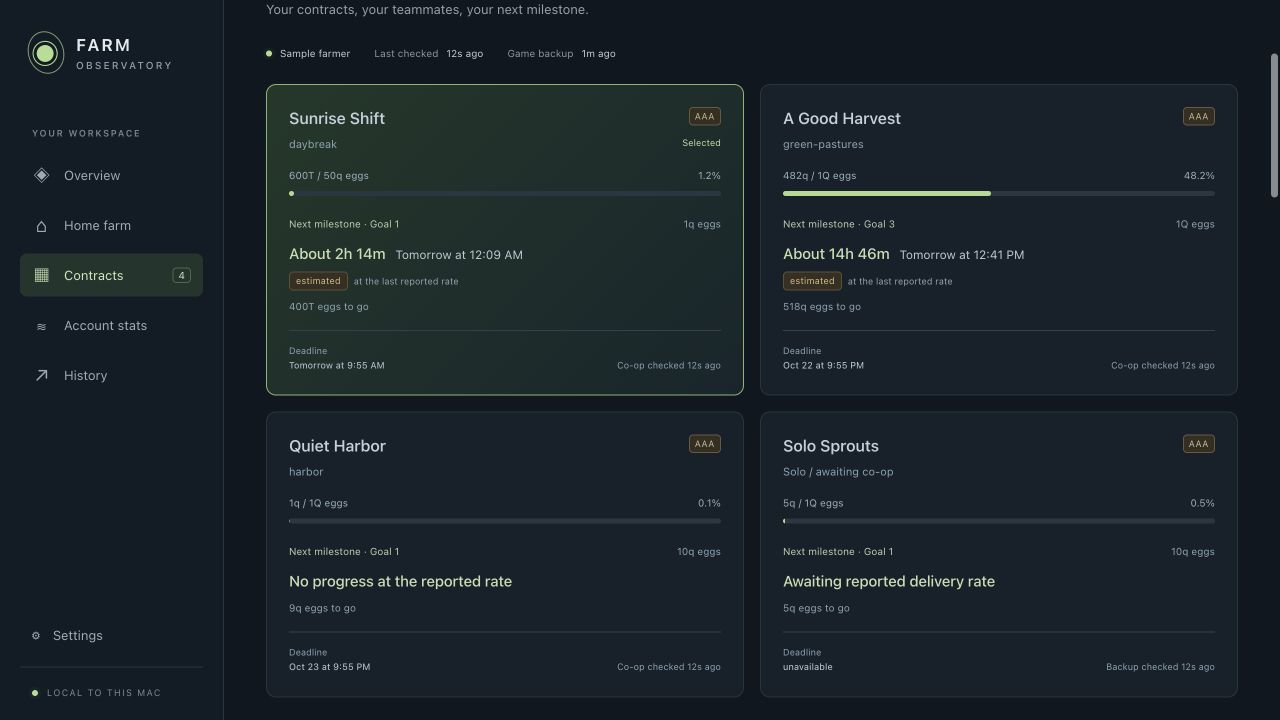
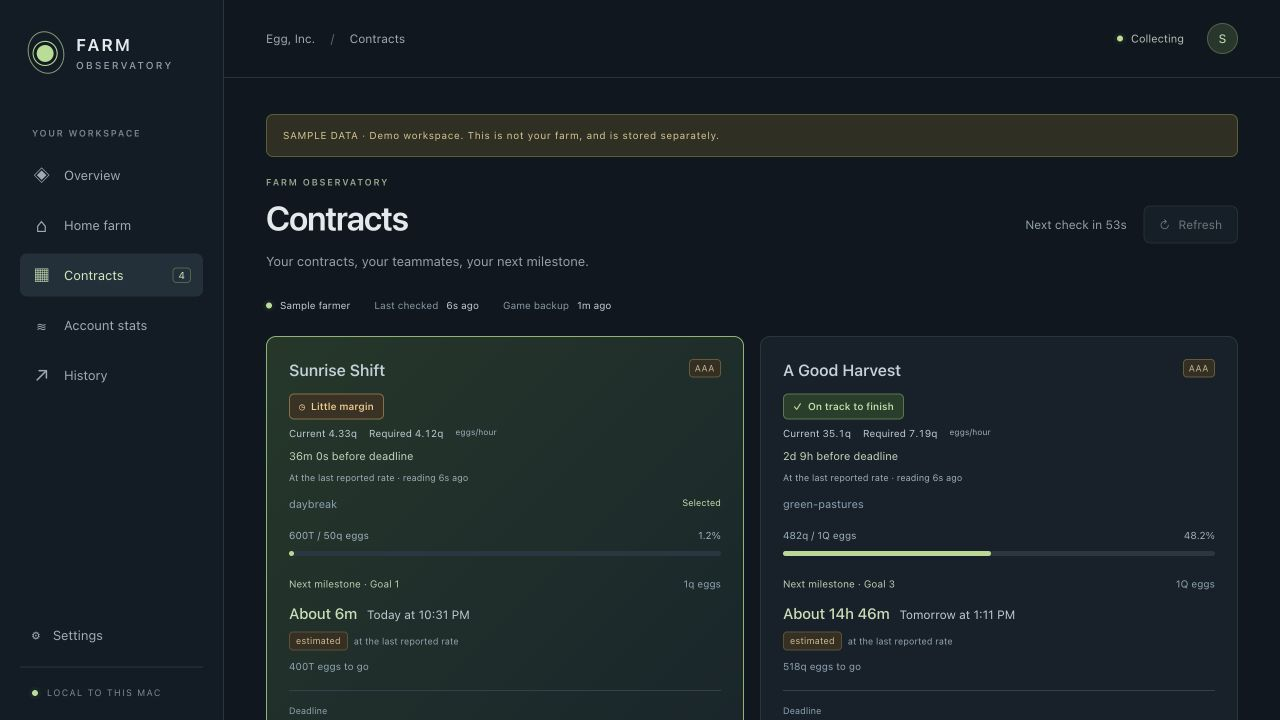
Add contract pace, milestone rewards and production insights

diff --git a/tests/contract-insights.test.ts b/tests/contract-insights.test.ts
@@ -1,0 +1,96 @@
+import { test } from 'node:test';
+import assert from 'node:assert/strict';
+import { contractPace, type EstimateContext } from '../src/contract-progress.ts';
+import { productionLimit, sortedProduction } from '../src/production.ts';
+import { rewardText } from '../src/rewards.ts';
+import { normalize, contractIdentity } from '../server/normalize.ts';
+import { makeBackup, makeCoop } from '../server/demo.ts';
+import { Store } from '../server/store.ts';
+import type { Contract, Member } from '../shared/types.ts';
+import { metric } from '../server/calculations.ts';
+const now=1_800_000_000_000;
+const context:EstimateContext={now,interval:60,paused:false,connected:true};
+function contract():Contract {return {id:'sample',segment:'sample:1',name:'Sample',coop:'demo',grade:'AAA',at:null,checkedAt:now,endsAt:now+1000000,goals:[100,900],members:[],error:null,metrics:{delivered:metric('Delivered',0,'eggs','reported',now),goal:metric('Final',900,'eggs','reported',now),rate:metric('Rate',1,'eggs/s','reported',now)}};}
+test('pace uses unrounded 90% and 100% boundaries, always for the final goal',()=>{
+  const c=contract();
+  c.metrics.goal!.value=899.999; assert.equal(contractPace(c,context).state,'on-track');
+  c.metrics.goal!.value=900; assert.equal(contractPace(c,context).state,'little-margin');
+  c.metrics.goal!.value=1000; assert.equal(contractPace(c,context).state,'little-margin');
+  c.metrics.goal!.value=1000.001; assert.equal(contractPace(c,context).state,'behind');
+  assert.ok(contractPace(c,context).marginSeconds!<0);
+});
+test('pace required rate and margin stay anchored while browser clock advances',()=>{
+  const c=contract(),first=contractPace(c,context),later=contractPace(c,{...context,now:now+60000});
+  assert.equal(first.requiredRate,.9);assert.equal(first.marginSeconds,100);assert.equal(first.timeUseRatio,.9);
+  assert.deepEqual(later,first);assert.equal(c.metrics.delivered!.value,0);
+  c.metrics.delivered!.value=100;c.metrics.delivered!.at=now+60000;c.metrics.rate!.at=now+60000;
+  assert.notEqual(contractPace(c,{...context,now:now+60000}).requiredRate,first.requiredRate);
+});
+test('zero, missing and invalid rates, totals, deadlines and timestamps remain distinct',()=>{
+  const c=contract();c.metrics.rate!.value=0;
+  assert.equal(contractPace(c,context).state,'behind');assert.equal(contractPace(c,context).marginSeconds,null);
+  for(const rate of [null,-1,Infinity]){c.metrics.rate!.value=rate;assert.equal(contractPace(c,context).state,'unknown');}
+  c.metrics.rate!.value=1;c.endsAt=null;assert.match(contractPace(c,context).reason!,/deadline/);
+  c.endsAt=now+1000000;c.metrics.delivered!.value=null;assert.match(contractPace(c,context).reason!,/delivered/);
+  c.metrics.delivered!.value=0;c.metrics.delivered!.at=null;assert.equal(contractPace(c,context).requiredRate,null);
+  c.metrics.delivered!.at=now;c.metrics.rate!.at=null;assert.equal(contractPace(c,context).state,'unknown');
+});
+test('stale, paused, offline and independent request failures retain last pace assessment',()=>{
+  const c=contract();
+  for(const changes of [{now:now+300001},{paused:true},{connected:false},{collectionError:true}]){
+    const p=contractPace(c,{...context,...changes});assert.equal(p.state,'unknown');assert.equal(p.lastAssessment,'Little margin');assert.equal(p.marginSeconds,100);assert.ok(p.reason);
+  }
+  assert.equal(contractPace(c,{...context,interval:300,now:now+500000}).state,'little-margin');
+  assert.equal(contractPace(c,{...context,interval:300,now:now+600001}).state,'unknown');
+  c.error='Failed';assert.equal(contractPace(c,context).state,'unknown');assert.equal(contractPace(contract(),context).state,'little-margin');
+});
+test('passed estimates, expired deadlines and exact reported completion take precedence',()=>{
+  const c=contract();
+  assert.equal(contractPace(c,{...context,now:now+900001}).state,'awaiting');
+  assert.equal(contractPace(c,{...context,now:now+1000000}).state,'expired');
+  c.metrics.rate!.value=null;assert.equal(contractPace(c,{...context,now:now+1000001}).state,'expired');
+  c.metrics.delivered!.value=900;c.endsAt=null;assert.equal(contractPace(c,{...context,paused:true}).state,'complete');
+});
+function normalized(){const backup=makeBackup(now),raw=makeCoop(now),segment=contractIdentity(backup.contracts.contracts[0]).segment;
+  return {backup,raw,segment,read:()=>normalize(backup,new Map([[segment,{raw,checkedAt:now}]]),new Map(),{},'EI0000000000000000',now)};}
+test('production normalizes per-chicken units without replacing authoritative delivery rates',()=>{
+  const f=normalized();f.raw.contributors[0].productionParams={elr:2,farmPopulation:10,sr:15};
+  const m=f.read().contracts[0]!.members[0]!;
+  assert.equal(m.metrics.layingPerChicken!.value,2);assert.equal(m.metrics.laying!.value,20);assert.equal(m.metrics.shipping!.value,15);
+  assert.equal(m.metrics.rate!.value,f.raw.contributors[0].contributionRate);assert.equal(m.metrics.laying!.source,'calculated');assert.equal(productionLimit(m),'Shipping limited');
+  f.raw.contributors[0].farmInfo.timestamp=-120;assert.equal(f.read().contracts[0]!.members[0]!.metrics.laying!.at,null);
+  f.raw.contributors[0].farmInfo.timestamp=(now+3600000)/1000;assert.equal(f.read().contracts[0]!.members[0]!.metrics.laying!.at,null);
+});
+test('production distinguishes missing, invalid, zero and balanced capacity and sorts nulls last both ways',()=>{
+  const f=normalized(),p=f.raw.contributors[0].productionParams;
+  const m=()=>f.read().contracts[0]!.members[0]!;
+  Object.assign(p,{elr:2,farmPopulation:10,sr:25});assert.equal(productionLimit(m()),'Laying limited');
+  p.sr=20;assert.equal(productionLimit(m()),'Balanced');p.elr=0;assert.equal(productionLimit(m()),'No laying reported');p.sr=0;assert.equal(productionLimit(m()),'No production reported');
+  delete p.sr;assert.equal(productionLimit(m()),'Production unavailable');p.sr=-1;assert.equal(m().metrics.shipping!.value,null);
+  p.elr=-1;assert.equal(m().metrics.laying!.value,null);
+  const member=(name:string,v:number|null):Member=>({id:name,name,me:false,artifacts:[],metrics:{laying:metric('Laying',v,'eggs/s','calculated',null)}});
+  const all=[member('Missing',null),member('Small',1),member('Large',2)];
+  assert.deepEqual(sortedProduction(all,'laying',1).map(m=>m.name),['Small','Large','Missing']);assert.deepEqual(sortedProduction(all,'laying',-1).map(m=>m.name),['Large','Small','Missing']);
+  assert.equal(productionLimit({...all[0]!,metrics:{}}),'Production unavailable');
+});
+test('grade rewards stay aligned through filtering, handle unknowns and never claim redemption',()=>{
+  const f=normalized(),spec=f.backup.contracts.contracts[0].contract;
+  spec.goals=[{targetAmount:1,rewardType:1,rewardAmount:999}];
+  spec.gradeSpecs[0].goals=[{type:99,targetAmount:50,rewardType:2,rewardAmount:1},{type:1,targetAmount:100,rewardType:4,rewardAmount:2},{type:1,targetAmount:200,rewardType:9,rewardAmount:3,rewardSubType:'boost_beacon_orange'},{type:1,targetAmount:300,rewardType:199,rewardAmount:4}];
+  const c=f.read().contracts[0]!;assert.deepEqual(c.goals,[100,200,300]);assert.equal(c.goalRewards!.length,3);
+  assert.equal(rewardText(c.goalRewards![0]),'2 · Eggs of Prophecy');assert.match(rewardText(c.goalRewards![1]),/Boost Beacon ×50/);assert.equal(rewardText(c.goalRewards![2]),'4 · Unknown reward');
+  assert.equal(rewardText(undefined),'Reward unavailable');assert.match(rewardText({type:11,subtype:'unrecognized',amount:1}),/subtype unavailable/);
+  assert.match(rewardText({type:9,subtype:'tachyon_prism_orange',amount:2}),/×1,000 · 10 min/);
+  assert.match(rewardText({type:5,subtype:'silo_capacity',amount:1}),/Silo Capacity/);
+  assert.doesNotMatch(c.goalRewards!.map(r=>rewardText(r)).join(' '),/claimed|redeemed/i);
+});
+test('new production metrics are additive history, preserving old missing readings and run boundaries',()=>{
+  const store=new Store(':memory:'),f=normalized();
+  try{const old=f.read();for(const m of old.contracts[0]!.members){delete m.metrics.laying;delete m.metrics.shipping;delete m.metrics.layingPerChicken;}store.save(old,60);
+    f.raw.contributors[0].productionParams.elr=2;f.raw.contributors[0].productionParams.sr=3;f.raw.contributors[0].farmInfo.timestamp=now/1000+60;
+    const fresh=f.read();fresh.at=now+61000;store.save(fresh,60);
+    const c=fresh.contracts[0]!,id=`member:${c.id}:${c.members[0]!.id}`;
+    const points=store.history(id,'laying',0,now+120000).points;assert.equal(points[0]!.value,null);assert.ok(points.at(-1)!.value!=null);
+    c.segment+=':replay';fresh.at+=61000;store.save(fresh,60);assert.ok(store.history(id,'laying',0,now+180000).points.at(-1)!.gap);
+  }finally{store.close();}
+});

diff --git a/src/App.vue b/src/App.vue
@@ -8,7 +8,9 @@ import ContractPopulation from './ContractPopulation.vue';
 import ContractGoals from './ContractGoals.vue';
 import ContractSummary from './ContractSummary.vue';
 import MilestoneEta from './MilestoneEta.vue';
-import { orderedContracts, selectedContractRun, milestoneEstimate } from './contract-progress.ts';
+import ContractPace from './ContractPace.vue';
+import ProductionDetails from './ProductionDetails.vue';
+import { orderedContracts, selectedContractRun, milestoneEstimate, contractPace } from './contract-progress.ts';
 import { habitatStatus } from './chart-data.ts';
 import { short,full,age,duration,percentage as pct,percentText } from './format.ts';
 
@@ -21,6 +23,7 @@ const contract=computed(()=>contracts.value.find(c=>c.segment===selectedContract
 watch(contracts, value => { selectedContract.value=selectedContractRun(value,selectedContract.value); }, {immediate:true});
 const estimateContext=computed(()=>({now:now.value,interval:status.value?.interval??60,paused:status.value?.paused??false,connected:connected.value,collectionError:!!status.value?.error,lastSuccess:status.value?.lastSuccess??null}));
 const nextEstimate=computed(()=>contract.value?milestoneEstimate(contract.value,estimateContext.value):null);
+const pace=computed(()=>contract.value?contractPace(contract.value,estimateContext.value):null);
 const finalEstimate=computed(()=>contract.value?milestoneEstimate(contract.value,estimateContext.value,'final'):null);
 watch(selectedContract,()=>{sortKey.value='contribution';sortDirection.value=-1;});
 function selectContract(run:string){selectedContract.value=run;page.value='contracts';}
@@ -132,11 +135,12 @@ onBeforeUnmount(()=>{events?.close();clearInterval(tick);});
      <template v-else-if="page==='contracts'">
       <div v-if="!contracts.length" class="empty-state"><h2>No active contracts</h2><p>Join a contract and sync the game. It will appear on the next check.</p></div>
       <template v-else><div class="contract-summary-grid" role="group" aria-label="Select a contract"><ContractSummary v-for="c in contracts" :key="c.segment" :contract="c" :context="estimateContext" :selected="contract?.segment===c.segment" controls="contract-details" @select="selectContract"/></div>
-       <section v-if="contract" id="contract-details" :key="contract.segment" class="contract-details" role="region" :aria-label="contract.name+' contract details'"><section class="panel contract-head"><div class="panel-heading"><div><div class="eyebrow">{{contract.coop??'SOLO / AWAITING CO-OP'}}</div><h2>{{contract.name}}</h2></div><div class="deadline"><strong>{{remaining(contract)}}</strong><span>time remaining</span></div></div><ContractGoals :goals="contract.goals" :delivered="contract.metrics.delivered" :final-goal="contract.metrics.goal" :estimate="nextEstimate??undefined" :now="now"/><div class="final-goal-estimate"><span class="eyebrow">FINAL GOAL ESTIMATE</span><MilestoneEta v-if="finalEstimate" :estimate="finalEstimate" :now="now"/><p class="quiet">Assumes the last reported rate holds; growth, boosts, and silos can change this.</p></div></section>
+       <section v-if="contract" id="contract-details" :key="contract.segment" class="contract-details" role="region" :aria-label="contract.name+' contract details'"><section class="panel contract-head"><div class="panel-heading"><div><div class="eyebrow">{{contract.coop??'SOLO / AWAITING CO-OP'}}</div><h2>{{contract.name}}</h2></div><div class="deadline"><strong>{{remaining(contract)}}</strong><span>time remaining</span></div></div><ContractGoals :goals="contract.goals" :rewards="contract.goalRewards" :delivered="contract.metrics.delivered" :final-goal="contract.metrics.goal" :estimate="nextEstimate??undefined" :now="now"/><div class="final-goal-estimate"><span class="eyebrow">FINAL GOAL ESTIMATE</span><ContractPace v-if="pace" :pace="pace" :now="now"/><MilestoneEta v-if="finalEstimate" :estimate="finalEstimate" :now="now"/><p class="quiet">Assumes the last reported rate holds; growth, boosts, and silos can change this.</p></div></section>
         <div v-if="contract.error" class="banner error-banner">{{contract.error}} Showing the last successful co-op response.</div>
         <div class="metrics-grid contract-metrics"><MetricCard :metric="contract.metrics.delivered" :now="now"/><MetricCard :metric="contract.metrics.rate" :now="now"/><MetricCard :metric="contract.metrics.goal" :now="now"/></div>
         <ContractPopulation :contract="contract" :farm="snap?.farms.find(f=>f.id===`farm:${contract?.id}`)" @history="entity=$event;metricKey='population';page='history'"/>
         <section class="panel table-panel"><div class="panel-heading"><div><h2>Co-op members <span class="count">{{members.length}}</span></h2><p class="quiet">Response checked {{age(contract.checkedAt,now)}} · farm timestamps shown when supplied.</p></div></div><div v-if="!members.length" class="inline-empty">Member details appear when a co-op response is available.</div><div v-else class="table-scroll"><table><thead><tr><th>Farmer</th><th v-for="[key,label] in [['contribution','Delivered'],['rate','Rate / sec'],['population','Population'],['capacity','Hab capacity'],['tokens','Tokens']]" :key="key" :aria-sort="sortKey===key?(sortDirection<0?'descending':'ascending'):'none'"><button @click="sort(key!)">{{label}} {{sortKey===key?(sortDirection<0?'↓':'↑'):'↕'}}</button></th><th>Farm timestamp</th><th>Artifacts</th></tr></thead><tbody><tr v-for="m in members" :key="m.id" :class="{me:m.me}"><td><strong>{{m.name}}</strong><span v-if="m.me" class="you-badge">YOU</span><span v-if="habitatStatus(m.metrics.population?.value,m.metrics.capacity?.value)?.isFull" class="hab-full-badge table-full-badge">✓ Habs full</span></td><td v-for="key in ['contribution','rate','population','capacity','tokens']" :key="key" :title="full(m.metrics[key]?.value)">{{short(m.metrics[key]?.value)}}<span v-if="key==='capacity'" class="member-occupancy">{{habitatStatus(m.metrics.population?.value,m.metrics.capacity?.value)?.label??'Occupancy unavailable'}}<template v-if="habitatStatus(m.metrics.population?.value,m.metrics.capacity?.value)"> occupied</template></span></td><td :title="date(m.metrics.population?.at)">{{age(m.metrics.population?.at,now)}}</td><td><div class="equipment-icons"><span v-if="!m.artifacts.length" class="quiet">—</span><img v-for="(a,i) in m.artifacts" :key="i" :src="a.image||'/icons/golden-egg.png'" :alt="a.name" :title="a.name+(a.stones.length?' · '+a.stones.join(', '):'')"></div></td></tr></tbody></table></div></section>
+        <ProductionDetails :contract="contract" :now="now"/>
         <section v-if="snap?.farms.find(f=>f.id===`farm:${contract?.id}`)" class="panel"><div class="panel-heading"><h2>Your contract farm</h2><span class="quiet">Saved backup</span></div><div class="metrics-grid"><MetricCard v-for="(m,i) in farmMetrics(snap.farms.find(f=>f.id===`farm:${contract?.id}`))" :key="i" :metric="m" :now="now"/></div></section>
        </section>
       </template>

diff --git a/src/ContractGoals.vue b/src/ContractGoals.vue
@@ -1,18 +1,19 @@
 <script setup lang="ts">
 import { computed } from 'vue';
-import type { Metric } from '../shared/types.ts';
+import type { Metric, GoalReward } from '../shared/types.ts';
 import { goalMilestones } from './contract-goals.ts';
 import { full, short, percentage, percentText } from './format.ts';
 import MilestoneEta from './MilestoneEta.vue';
+import { rewardText } from './rewards.ts';
 import type { MilestoneEstimate } from './contract-progress.ts';
 
-const props = defineProps<{ goals: number[]; delivered?: Metric; finalGoal?: Metric; estimate?: MilestoneEstimate; now: number }>();
+const props = defineProps<{ goals: number[]; rewards?: GoalReward[]; delivered?: Metric; finalGoal?: Metric; estimate?: MilestoneEstimate; now: number }>();
 const milestones = computed(() => goalMilestones(props.goals, props.delivered?.value, props.finalGoal?.value));
 const progress = computed(() => percentage(props.delivered?.value, props.finalGoal?.value));
 const flagHeight = computed(() => 40 + Math.max(0, ...milestones.value.map(m => m.level)) * 23);
 type Milestone = ReturnType<typeof goalMilestones>[number];
 const status = (milestone: Milestone) => milestone.reached == null ? 'Progress unavailable' : milestone.reached ? 'Reached' : milestone.next ? 'Next milestone' : 'Upcoming';
-const detail = (milestone: Milestone) => `Goal ${milestone.number}: ${full(milestone.target)} eggs. ${status(milestone)}.${milestone.remaining == null ? '' : ` ${full(milestone.remaining)} eggs to go.`}`;
+const detail = (milestone: Milestone) => `Goal ${milestone.number}: ${full(milestone.target)} eggs. ${status(milestone)}. ${rewardText(props.rewards?.[milestone.number-1],true)}.${milestone.remaining == null ? '' : ` ${full(milestone.remaining)} eggs to go.`}`;
 </script>
 
 <template>
@@ -23,7 +24,7 @@ const detail = (milestone: Milestone) => `Goal ${milestone.number}: ${full(miles
       <template v-for="milestone in milestones" :key="milestone.number">
         <button v-if="milestone.position!=null" type="button" class="goal-flag" :class="{reached:milestone.reached,next:milestone.next}" :style="{left:milestone.position+'%',height:(35+milestone.level*23)+'px'}" :aria-label="detail(milestone)">
           <span class="goal-pole" aria-hidden="true"></span><span class="goal-pennant" aria-hidden="true">{{milestone.number}}</span>
-          <span class="milestone-tooltip" :class="{edgeStart:milestone.position<20,edgeEnd:milestone.position>80}">{{detail(milestone)}}</span>
+          <span class="milestone-tooltip" :class="{edgeStart:milestone.position<35,edgeEnd:milestone.position>65}">{{detail(milestone)}}</span>
         </button>
       </template>
     </div>
@@ -31,6 +32,7 @@ const detail = (milestone: Milestone) => `Goal ${milestone.number}: ${full(miles
       <li v-for="milestone in milestones" :key="milestone.number" :class="{reached:milestone.reached,next:milestone.next}" tabindex="0" :aria-label="detail(milestone)">
         <div class="milestone-name"><span>Goal {{milestone.number}}</span><span class="milestone-status"><span aria-hidden="true">{{milestone.reached?'✓':milestone.next?'⚑':'○'}}</span> {{status(milestone)}}</span></div>
         <strong>{{short(milestone.target)}} <small>eggs</small></strong>
+        <span class="milestone-reward" :title="rewardText(rewards?.[milestone.number-1],true)">Reward: {{rewardText(rewards?.[milestone.number-1])}}</span>
         <MilestoneEta v-if="milestone.next && estimate" :estimate="estimate" :now="now" compact/>
         <span class="milestone-remaining">{{milestone.remaining==null?'Waiting for reported delivery':milestone.reached?'Target delivered':short(milestone.remaining)+' eggs to go'}}</span>
         <span class="milestone-tooltip">{{detail(milestone)}}</span>

diff --git a/server/normalize.ts b/server/normalize.ts
@@ -29,10 +29,16 @@ export function normalize(backup: Raw, coops: Map<string, {raw: Raw; checkedAt: 
     const { id,segment } = contractIdentity(local), cached = coops.get(segment), raw = cached?.raw;
     const definition = local.contract ?? metadata.contracts?.contracts?.find((c: Raw) => c.identifier === id) ?? {};
     const grade = definition.gradeSpecs?.find((g: Raw) => g.grade === (raw?.grade ?? local.grade));
-    const goals = (grade?.goals ?? definition.goals ?? []).filter((g:Raw)=>g.type === 1 || g.type == null).map((g: Raw) => num(g.targetAmount)).filter((n:any):n is number=>n!=null);
+    const goalDefinitions = (grade?.goals ?? definition.goals ?? []).filter((g:Raw)=>(g.type === 1 || g.type == null) && num(g.targetAmount)!=null);
+    const goals = goalDefinitions.map((g: Raw) => num(g.targetAmount)!);
+    const goalRewards = goalDefinitions.map((g: Raw) => ({ type: num(g.rewardType), subtype: g.rewardSubType ?? null, amount: g.rewardAmount ?? null }));
     const farm = farms.find((f: any) => f.id === `farm:${id}`);
     const members: Member[] = (raw?.contributors ?? []).map((c: Raw) => {
-      const time = timestamp(c.farmInfo?.timestamp), p = c.productionParams ?? {};
+      const savedTime = timestamp(c.farmInfo?.timestamp);
+      const time = savedTime != null && Number.isFinite(savedTime) && savedTime <= now + 60000 ? savedTime : null, p = c.productionParams ?? {};
+      const positive = (value: any) => value === '' || num(value) == null || num(value)! < 0 ? null : num(value);
+      const elr = positive(p.elr), population = positive(p.farmPopulation);
+      const laying = elr != null && population != null ? elr * population : null;
       return { id: createHash('sha256').update(String(c.uuid ?? c.userId ?? c.userName)).digest('hex').slice(0,16), name: c.userName ?? 'Unnamed farmer', me: c.userId === eid || c.userId === local.coopUserId,
         artifacts: equipment(c.farmInfo?.equippedArtifacts ?? []).items,
         metrics: {
@@ -41,6 +47,9 @@ export function normalize(backup: Raw, coops: Map<string, {raw: Raw; checkedAt: 
           population:metric('Population',p.farmPopulation,'chickens','reported',time),
           capacity:metric('Habitat capacity',p.farmCapacity,'chickens','reported',time),
           tokens:metric('Tokens',c.boostTokens,'tokens','reported',time),
+          layingPerChicken:metric('Laying rate per chicken',elr,'eggs/s/chicken','reported',time),
+          laying:metric('Total laying rate',laying,'eggs/s','calculated',time,'Reported per-chicken laying rate multiplied by reported population.'),
+          shipping:metric('Shipping capacity',positive(p.sr),'eggs/s','reported',time),
         },
       };
     });
@@ -55,7 +64,7 @@ export function normalize(backup: Raw, coops: Map<string, {raw: Raw; checkedAt: 
     const secondsToGoal = total != null && target != null && rate != null && rate > 0 ? Math.max(0,(target-total)/rate) : null;
     return {
       id,segment,name:definition.name ?? id,coop:local.coopIdentifier || null,grade:['—','C','B','A','AA','AAA'][raw?.grade ?? local.grade ?? 0] ?? '—',
-      at:raw ? null : observed, checkedAt:cached?.checkedAt ?? null,endsAt,goals,members,error:errors.get(segment) ?? null,
+      at:raw ? null : observed, checkedAt:cached?.checkedAt ?? null,endsAt,goals,goalRewards,members,error:errors.get(segment) ?? null,
       metrics:{
         delivered:metric('Reported delivered eggs',total,'eggs','reported',observed),
         rate:metric('Reported delivery rate',rate,'eggs/s','reported',observed),

diff --git a/src/style.css b/src/style.css
@@ -42,3 +42,8 @@
 .milestone-eta{display:flex;flex-wrap:wrap;align-items:baseline;gap:7px 10px;line-height:1.5;font-size:12px;color:#cadfb6}.milestone-eta>strong{font-size:18px;font-weight:500;letter-spacing:-.3px}.milestone-eta.compact>strong{font-size:15px;letter-spacing:-.1px;margin:0}.eta-absolute{font-size:12px;color:#becbd3}.eta-assumption{display:flex;gap:6px;align-items:center;flex-basis:100%;font-size:9px;color:#93a5b2}.eta-freshness{font-size:10px;color:#d8ba8b;flex-basis:100%}.milestone-eta.muted>strong{color:#a8b5bf}.milestone-eta.warning>strong,.milestone-eta.warning .eta-assumption{color:#dfbf89}.milestone-cards .milestone-eta{margin:14px 0 10px}.milestone-cards .milestone-eta .eta-absolute{font-size:10px}.milestone-cards .milestone-eta>strong{font-size:14px}.milestone-cards .milestone-eta .source{font-size:8px;padding:2px 4px}.final-goal-estimate{margin-top:20px}.final-goal-estimate>.eyebrow{display:block;margin-bottom:12px}.final-goal-estimate>p{font-size:10px;margin-top:12px;line-height:1.7}.all-goals-reached{font-size:12px;color:var(--green);padding-top:15px}
 @media(max-width:850px){.contract-summary-grid{grid-template-columns:1fr}.contract-summary{padding:20px}}
 @media(max-width:520px){.summary-contract-footer{align-items:flex-start;flex-wrap:wrap}.summary-contract-heading>strong{font-size:15px}.milestone-eta>strong{font-size:16px}.summary-next-goal{flex-wrap:wrap}.contract-summary-grid{gap:12px}}
+
+.contract-pace{display:flex;flex-wrap:wrap;align-items:center;gap:8px 14px;margin:12px 0 18px;line-height:1.6;font-size:11px}.pace-badge{display:inline-flex;gap:6px;align-items:center;padding:4px 9px;border-radius:5px;border:1px solid #52616c;background:#26333d;color:#c7d3dc;font-size:11px;font-weight:550}.pace-badge.on-track,.pace-badge.complete{border-color:#5b7850;background:#2b3e2b;color:#c2e2ac}.pace-badge.little-margin{border-color:#887047;background:#3a3325;color:#f0ce91}.pace-badge.behind,.pace-badge.expired{border-color:#8b5c54;background:#3b2c2c;color:#f0b5a8}.pace-rates{display:flex;flex-wrap:wrap;gap:5px 12px;font-variant-numeric:tabular-nums;color:#bfccd5}.pace-rates small{color:#9eafba}.pace-margin{color:#c6d5ba}.pace-assumption{flex-basis:100%;font-size:10px;color:#9eafba}.contract-pace.compact{gap:6px 12px;margin:12px 0}.contract-pace.compact .pace-badge{font-size:10px}.contract-pace.compact .pace-rates{flex-basis:100%;font-size:10px}.contract-pace.compact .pace-assumption{font-size:9px}.contract-pace .quiet{font-size:10px}.milestone-reward{display:block;margin:8px 0;color:#d9c79d;font-size:11px;line-height:1.6;overflow-wrap:anywhere}.production-details>summary{cursor:pointer;font-size:15px;font-weight:500;padding:2px 0}.production-details>summary .quiet{display:inline-block;font-size:11px;font-weight:400;margin-left:12px}.production-details>p{font-size:11px;line-height:1.7;margin:15px 0}.production-source{display:block;color:#92a5b3;font-size:9px;margin-top:4px}.production-details table{min-width:660px}.production-details{min-width:0}.contract-summary:focus-visible,.production-details summary:focus-visible{outline:2px solid #c6dba8;outline-offset:4px}
+@media(max-width:520px){.contract-pace{align-items:flex-start}.pace-rates{flex-basis:100%}.production-details>summary .quiet{display:block;margin:7px 0}.contract-pace.compact .pace-margin{font-size:10px}}
+
+.shell>main,.content,.contract-details{min-width:0}

diff --git a/src/contract-progress.ts b/src/contract-progress.ts
@@ -58,3 +58,35 @@ export function milestoneEstimate(contract: Contract, context: EstimateContext, 
   if (result.estimatedAt <= context.now) return { ...result, state: 'awaiting', message: 'Awaiting updated progress' };
   return { ...result, state: 'estimate', message: result.afterDeadline ? 'After deadline at current rate' : 'At the last reported rate', live: result.staleReason == null };
 }
+
+export interface ContractPace {
+  state: 'on-track' | 'little-margin' | 'behind' | 'complete' | 'unknown' | 'awaiting' | 'expired';
+  label: string; reason: string | null; lastAssessment: string | null;
+  observedAt: number | null; currentRate: number | null; requiredRate: number | null;
+  marginSeconds: number | null; timeUseRatio: number | null;
+}
+export function contractPace(contract: Contract, context: EstimateContext): ContractPace {
+  const estimate = milestoneEstimate(contract, context, 'final');
+  const currentRate = number(contract.metrics.rate?.value), reading = time(contract.metrics.delivered?.at);
+  const deadline = time(contract.endsAt);
+  const available = deadline != null && reading != null ? (deadline - reading) / 1000 : null;
+  const result: ContractPace = { state: 'unknown', label: 'Pace unknown', reason: null, lastAssessment: null,
+    observedAt: estimate.observedAt, currentRate, requiredRate: null, marginSeconds: null, timeUseRatio: null };
+  if (estimate.state === 'complete') return { ...result, state: 'complete', label: 'All goals reached' };
+  if (available != null && available > 0 && estimate.remaining != null) result.requiredRate = estimate.remaining / available;
+  if (deadline != null && estimate.estimatedAt != null) result.marginSeconds = (deadline - estimate.estimatedAt) / 1000;
+  if (available != null && available > 0 && reading != null && time(contract.metrics.rate?.at) != null && estimate.remaining != null && currentRate != null) {
+    result.timeUseRatio = currentRate > 0 ? (estimate.remaining / currentRate) / available : null;
+    if (currentRate === 0 && estimate.remaining > 0 || result.timeUseRatio != null && result.timeUseRatio > 1) {
+      result.state = 'behind'; result.label = 'Behind pace';
+    } else if (result.timeUseRatio != null && result.timeUseRatio >= .9) {
+      result.state = 'little-margin'; result.label = 'Little margin';
+    } else if (result.timeUseRatio != null) { result.state = 'on-track'; result.label = 'On track to finish'; }
+  }
+  if (deadline != null && deadline <= context.now) return { ...result, state: 'expired', label: 'Deadline passed' };
+  const lastAssessment = result.state !== 'unknown' ? result.label : null;
+  if (estimate.state === 'awaiting') return { ...result, state: 'awaiting', label: 'Awaiting updated progress', reason: estimate.staleReason, lastAssessment };
+  if (estimate.staleReason) return { ...result, state: 'unknown', label: 'Pace unknown', reason: estimate.staleReason, lastAssessment };
+  if (result.state === 'unknown') result.reason = deadline == null ? 'Contract deadline unavailable' : available == null ? 'Observation timestamp unavailable' : estimate.message;
+  return result;
+}

diff --git a/src/ContractSummary.vue b/src/ContractSummary.vue
@@ -1,20 +1,23 @@
 <script setup lang="ts">
 import { computed } from 'vue';
 import type { Contract } from '../shared/types.ts';
-import { milestoneEstimate, lastContractCheck, type EstimateContext } from './contract-progress.ts';
+import { milestoneEstimate, contractPace, lastContractCheck, type EstimateContext } from './contract-progress.ts';
 import { age, full, short, percentage, percentText, completionTime, estimateCountdown } from './format.ts';
 import MilestoneEta from './MilestoneEta.vue';
+import ContractPace from './ContractPace.vue';
 const props = withDefaults(defineProps<{ contract: Contract; context: EstimateContext; selected?: boolean; compact?: boolean; controls?: string }>(), { selected: false, compact: false });
 defineEmits<{ select: [run: string] }>();
 const estimate = computed(() => milestoneEstimate(props.contract, props.context));
+const pace = computed(() => contractPace(props.contract, props.context));
 const progress = computed(() => percentage(props.contract.metrics.delivered?.value, props.contract.metrics.goal?.value));
 const accessibleEstimate = computed(() => { const e=estimate.value; return e.state==='estimate' ? `${e.live?'About '+estimateCountdown(e.estimatedAt!,props.context.now):'Last estimate'}, ${completionTime(e.estimatedAt!,props.context.now)}. ${e.staleReason??e.message}` : e.message; });
 const checked = computed(() => lastContractCheck(props.contract,props.context));
 </script>
 
 <template>
-  <button type="button" class="contract-summary" :class="{selected,compact}" :aria-pressed="controls?selected:undefined" :aria-controls="controls" :aria-label="`View ${contract.name}, ${contract.coop??'solo or awaiting co-op'}. ${estimate.goalNumber!=null?'Next milestone, goal '+estimate.goalNumber+'. ':''}${accessibleEstimate}`" @click="$emit('select',contract.segment)">
+  <button type="button" class="contract-summary" :class="{selected,compact}" :aria-pressed="controls?selected:undefined" :aria-controls="controls" :aria-label="`View ${contract.name}, ${contract.coop??'solo or awaiting co-op'}. ${estimate.goalNumber!=null?'Next milestone, goal '+estimate.goalNumber+'. ':''}${accessibleEstimate}. ${pace.label}`" @click="$emit('select',contract.segment)">
     <span class="summary-contract-heading"><strong>{{contract.name}}</strong><span class="grade">{{contract.grade}}</span></span>
+    <ContractPace :pace="pace" :now="context.now" compact/>
     <span class="summary-coop">{{contract.coop??'Solo / awaiting co-op'}}<span v-if="selected" class="selected-contract-label">Selected</span></span>
     <span class="summary-progress-caption" :title="`${full(contract.metrics.delivered?.value)} / ${full(contract.metrics.goal?.value)} eggs, reported`"><span>{{short(contract.metrics.delivered?.value)}} / {{short(contract.metrics.goal?.value)}} eggs</span><span>{{percentText(progress)}}</span></span>
     <span class="progress-track"><span :style="{width:(progress??0)+'%'}"></span></span>

diff --git a/server/demo.ts b/server/demo.ts
@@ -26,7 +26,7 @@ export function makeDemoBackup(now = Date.now()): Raw {
   backup.contracts.contracts = demoContracts.map((definition, index) => ({
     ...structuredClone(local),
     contract: { ...structuredClone(local.contract), identifier: definition.id, name: definition.name,
-      gradeSpecs: [{ ...structuredClone(local.contract.gradeSpecs[0]), goals: definition.goals.map(targetAmount => ({ type: 1, targetAmount })) }] },
+      gradeSpecs: [{ ...structuredClone(local.contract.gradeSpecs[0]), goals: definition.goals.map((targetAmount, i) => ({ type: 1, targetAmount, rewardType: [2,4,9][i], rewardAmount: [25000,2,3][i], ...(i===2?{rewardSubType:"boost_beacon_orange"}:{}) })) }] },
     coopIdentifier: definition.coop, timeAccepted: 1700000000 + index * 100,
     coopSimulationEndTime: definition.duration == null ? undefined : now / 1000 + definition.duration,
   }));
@@ -39,10 +39,17 @@ export function makeDemoCoop(id: string, now = Date.now()): Raw {
   raw.secondsRemaining = definition.duration;
   if (id === 'sunrise-shift-demo') {
     raw.totalAmount = 6e14;
-    raw.contributors.forEach((member: Raw, index: number) => { member.contributionRate = 5e10 / 3; member.contributionAmount = 2e14; member.productionParams.farmPopulation = 6000000000; if (index) member.userName = ['','Dawn','Sunny'][index]; });
+    raw.contributors.forEach((member: Raw, index: number) => { member.contributionRate = (5e16 - 6e14) / (43200 * .95) / 3; member.contributionAmount = 2e14; member.productionParams.farmPopulation = 6000000000; if (index) member.userName = ['','Dawn','Sunny'][index]; });
   } else if (id === 'quiet-harbor-demo') {
     raw.totalAmount = 1e15; raw.contributors.forEach((member: Raw, index: number) => { member.contributionRate = 0; member.contributionAmount = 1e15 / 3; if (index) member.userName = ['','Sailor','Pebble'][index]; });
   }
+  raw.contributors.forEach((member: Raw, index: number) => {
+    const population = member.productionParams.farmPopulation;
+    const rate = member.contributionRate;
+    member.productionParams.elr = rate / population;
+    member.productionParams.sr = rate * (index===0 ? .8 : index===1 ? 1.2 : 1);
+    if (index===2) delete member.productionParams.sr;
+  });
   return raw;
 }
 export class DemoClient implements EggClient {

diff --git a/src/ProductionDetails.vue b/src/ProductionDetails.vue
@@ -1,0 +1,19 @@
+<script setup lang="ts">
+import { computed, ref } from 'vue';
+import type { Contract, Value } from '../shared/types.ts';
+import { productionLimit, sortedProduction } from './production.ts';
+import { age, full, short } from './format.ts';
+const props=defineProps<{contract:Contract;now:number}>();
+const key=ref('laying'), direction=ref(-1);
+const members=computed(()=>sortedProduction(props.contract.members,key.value,direction.value));
+function sort(next:string){if(key.value===next)direction.value*=-1;else{key.value=next;direction.value=-1;}}
+const hourly=(value:Value|undefined)=>value==null?null:Number(value)*3600;
+</script>
+<template>
+  <details class="panel production-details">
+    <summary>Production details <span class="quiet">Laying versus shipping</span></summary>
+    <p class="quiet">Current reported farm capacity, without future growth. Delivery rate remains authoritative. Response checked {{age(contract.checkedAt,now)}}.</p>
+    <p v-if="!members.length" class="quiet">Production details appear when a co-op response is available.</p>
+    <div v-else class="table-scroll" tabindex="0" role="region" aria-label="Production rates table; scroll horizontally for more columns"><table><thead><tr><th>Farmer</th><th v-for="[metric,label] in [['laying','Laying / hour'],['shipping','Shipping / hour']]" :key="metric" :aria-sort="key===metric?(direction<0?'descending':'ascending'):'none'"><button @click="sort(metric!)">{{label}} {{key===metric?(direction<0?'↓':'↑'):'↕'}}</button></th><th>Limiting factor</th><th>Farm timestamp</th></tr></thead><tbody><tr v-for="m in members" :key="m.id" :class="{me:m.me}"><td><strong>{{m.name}}</strong><span v-if="m.me" class="you-badge">YOU</span></td><td v-for="metric in ['laying','shipping']" :key="metric" :title="full(hourly(m.metrics[metric]?.value))+' eggs/hour · '+(m.metrics[metric]?.source??'unavailable')">{{short(hourly(m.metrics[metric]?.value))}}<small class="production-source">{{m.metrics[metric]?.source??'unavailable'}}</small></td><td>{{productionLimit(m)}}</td><td :title="m.metrics.laying?.at?new Date(m.metrics.laying.at).toLocaleString():'Not reported'">{{age(m.metrics.laying?.at,now)}}</td></tr></tbody></table></div>
+  </details>
+</template>

diff --git a/src/ContractPace.vue b/src/ContractPace.vue
@@ -1,0 +1,18 @@
+<script setup lang="ts">
+import type { ContractPace } from './contract-progress.ts';
+import { age, duration, full, short } from './format.ts';
+defineProps<{ pace: ContractPace; now: number; compact?: boolean }>();
+const icons = { 'on-track': '✓', 'little-margin': '◷', behind: '!', complete: '✓', unknown: '?', awaiting: '◷', expired: '!' };
+</script>
+<template>
+  <div class="contract-pace" :class="{compact}">
+    <span class="pace-badge" :class="pace.state"><span aria-hidden="true">{{icons[pace.state]}}</span> {{pace.label}}</span>
+    <template v-if="pace.state!=='complete'">
+      <span class="pace-rates"><span :title="full(pace.currentRate==null?null:pace.currentRate*3600)+' eggs/hour, reported'">Current {{short(pace.currentRate==null?null:pace.currentRate*3600)}}</span><span :title="full(pace.requiredRate==null?null:pace.requiredRate*3600)+' eggs/hour, calculated at the reading'">Required {{short(pace.requiredRate==null?null:pace.requiredRate*3600)}}</span><small>eggs/hour</small></span>
+      <span v-if="pace.marginSeconds!=null" class="pace-margin" :title="full(Math.abs(pace.marginSeconds))+' seconds'">{{pace.state==='unknown'||pace.state==='awaiting'||pace.state==='expired'?'Last margin: ':''}}{{pace.marginSeconds===0?'At the deadline':duration(Math.abs(pace.marginSeconds))+(pace.marginSeconds>0?' before deadline':' after deadline')}}</span>
+      <span v-if="pace.lastAssessment" class="quiet">Last assessment: {{pace.lastAssessment}}</span>
+      <span v-if="pace.reason" class="eta-freshness">{{pace.reason}}</span>
+      <span class="pace-assumption" :title="pace.observedAt?new Date(pace.observedAt).toLocaleString():'Timestamp unavailable'">At the last reported rate · reading {{age(pace.observedAt,now)}}</span>
+    </template>
+  </div>
+</template>

diff --git a/src/rewards.ts b/src/rewards.ts
@@ -1,0 +1,14 @@
+import type { GoalReward } from '../shared/types.ts';
+import { full, short } from './format.ts';
+import research from '../vendor/researches.json';
+const categories:Record<number,string>={1:'Cash',2:'Golden eggs',3:'Soul eggs',4:'Eggs of Prophecy',5:'Epic research',6:'Piggy fill',7:'Piggy multiplier',8:'Piggy level',9:'Boost',10:'Boost tokens',11:'Artifact',12:'Artifact case',13:'Chickens',14:'Shell tickets',15:'Virtue gems'};
+// Variant multipliers/durations: wasmegg-carpet/egg, lib/farm/boosts.ts.
+const subtypes:Record<string,string>={tachyon_prism_orange:'Tachyon Prism ×1,000 · 10 min',tachyon_prism_purple_big:'Tachyon Prism ×100 · 2 hours',boost_beacon_blue:'Boost Beacon ×2',boost_beacon_blue_big:'Boost Beacon ×5',boost_beacon_purple:'Boost Beacon ×10',boost_beacon_orange:'Boost Beacon ×50'};
+export function rewardText(reward:GoalReward|undefined,exact=false):string {
+  if(!reward || reward.type==null && reward.amount==null && !reward.subtype)return 'Reward unavailable';
+  const category=reward.type==null?null:categories[reward.type];
+  if(!category)return reward.amount==null?'Unknown reward':`${(exact?full:short)(reward.amount)} · Unknown reward`;
+  const amount=reward.amount==null?'Amount unavailable':(exact?full:short)(reward.amount);
+  const subtype=reward.subtype ? reward.type===9 ? subtypes[reward.subtype] : reward.type===5 ? research.find(r=>r.type==='epic' && r.id===reward.subtype)?.name : null : null;
+  return `${amount} · ${category}${subtype?' · '+subtype:reward.subtype?' · subtype unavailable':''}`;
+}

diff --git a/shared/types.ts b/shared/types.ts
@@ -10,10 +10,11 @@ export interface Farm {
   notes: string[];
 }
 export interface Member { id: string; name: string; me: boolean; metrics: Metrics; artifacts: Equipment[] }
+export interface GoalReward { type: number | null; subtype: string | null; amount: Value }
 export interface Contract {
   id: string; segment: string; name: string; coop: string | null; grade: string;
   at: number | null; checkedAt: number | null; endsAt: number | null;
-  metrics: Metrics; goals: number[]; members: Member[]; error: string | null;
+  metrics: Metrics; goals: number[]; goalRewards?: GoalReward[]; members: Member[]; error: string | null;
 }
 export interface Snapshot { at: number; backupAt: number | null; name: string; stats: Metrics; home: Farm | null; farms: Farm[]; contracts: Contract[]; notes: string[] }
 export interface Status { configured: boolean; maskedEid: string | null; interval: number; paused: boolean; collecting: boolean; lastAttempt: number | null; lastSuccess: number | null; nextPoll: number | null; error: string | null; demo: boolean }
